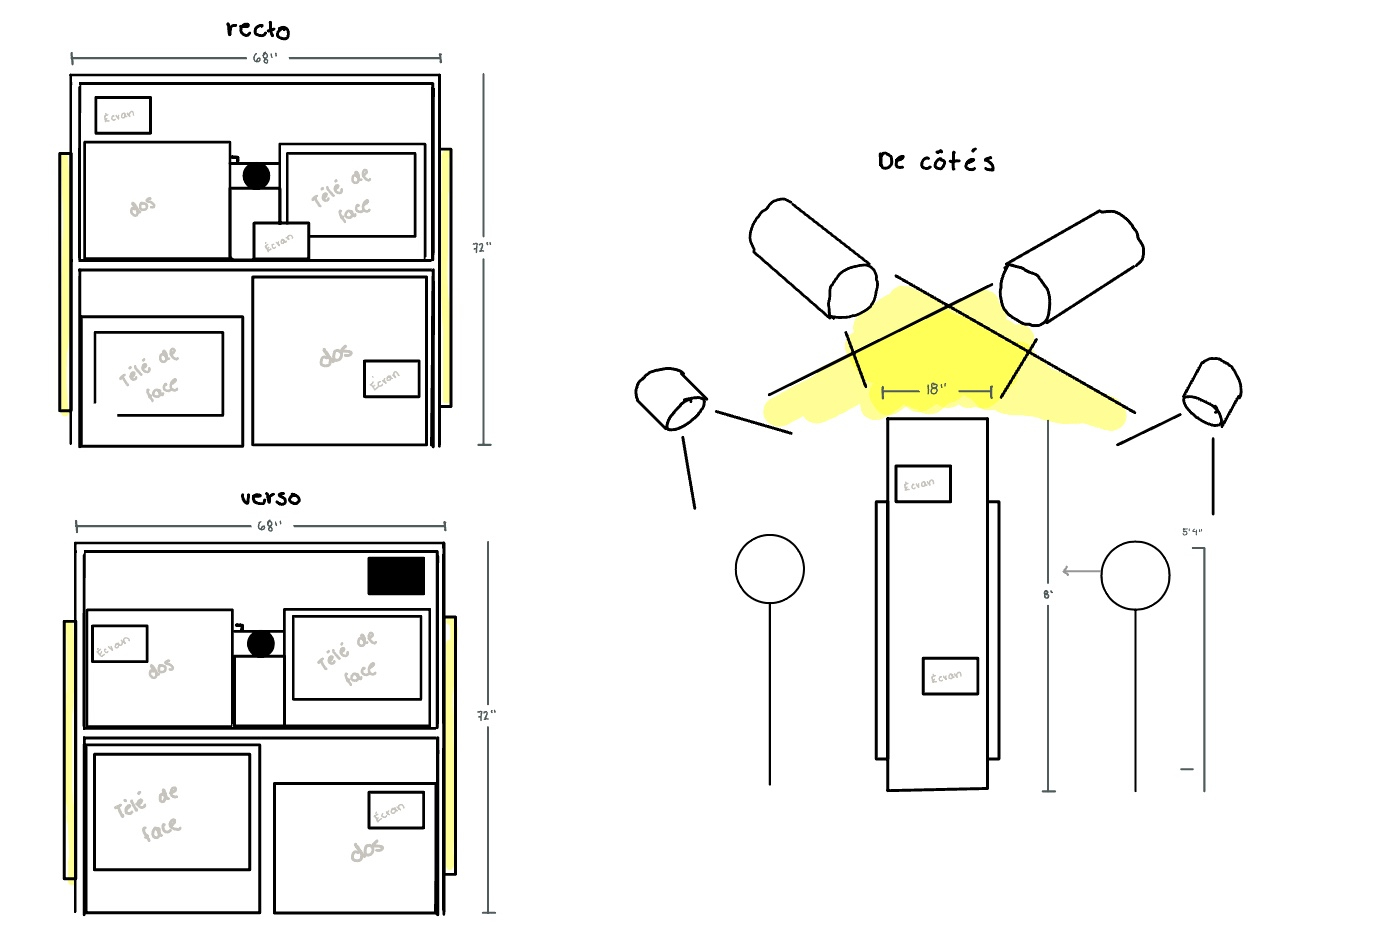
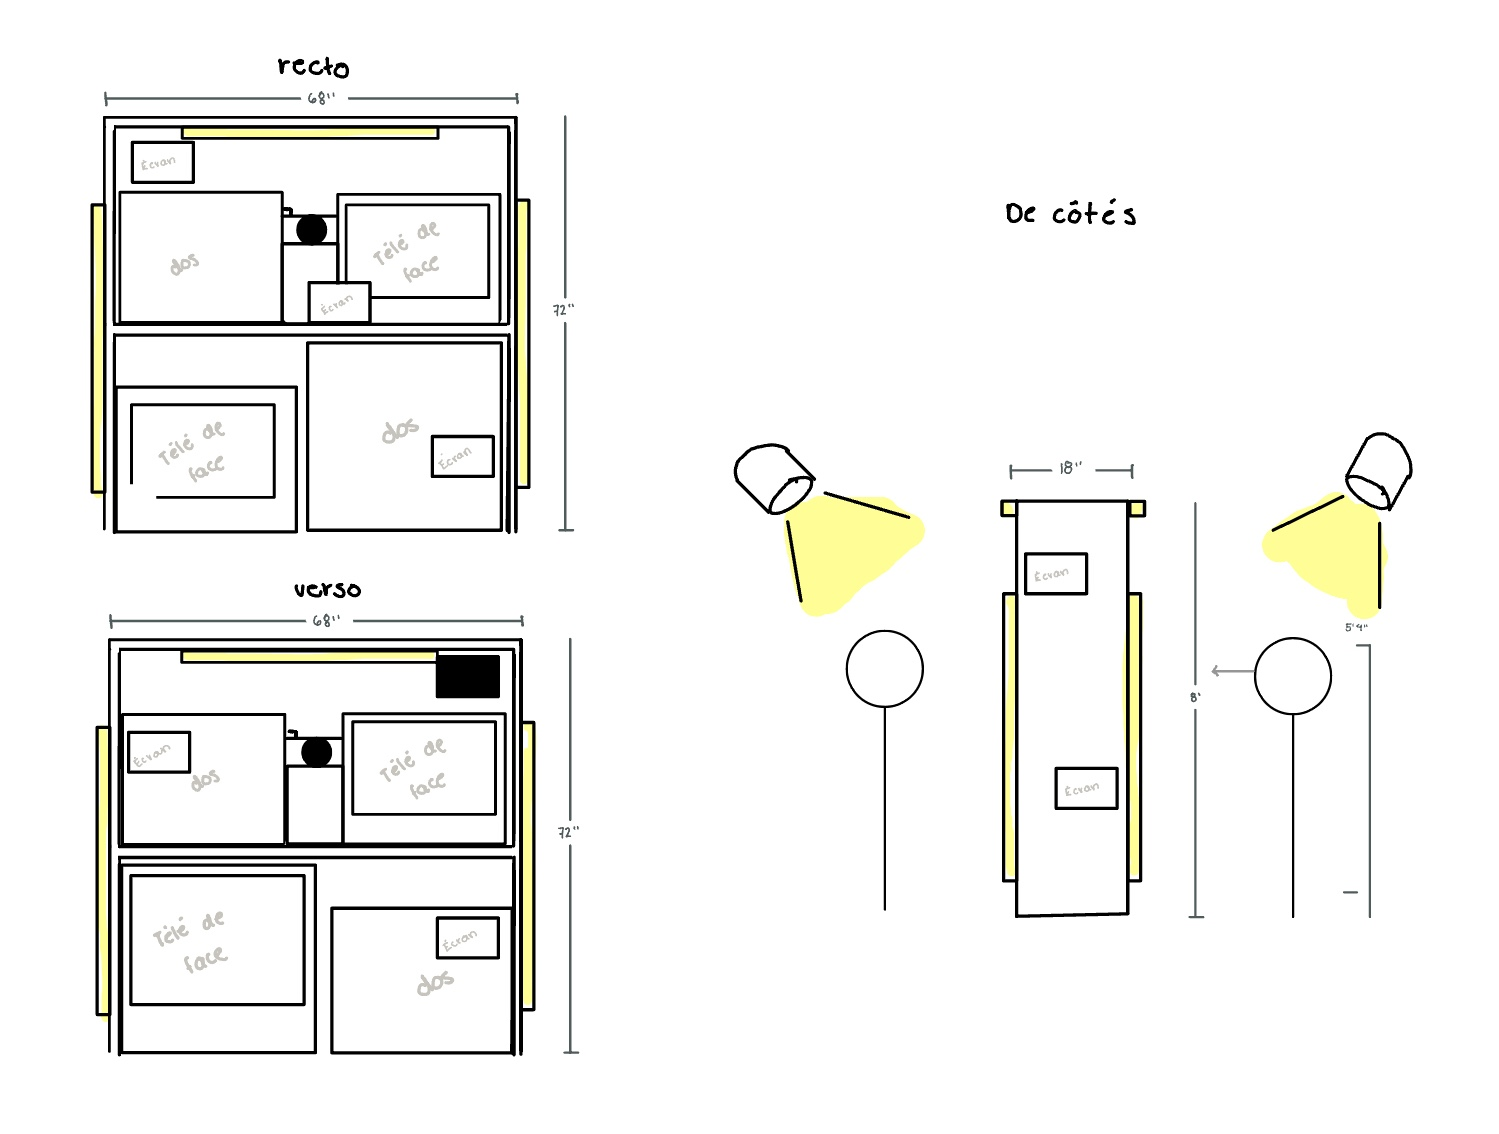
journal_19/02

diff --git a/equipe/jade_hebert/README.md b/equipe/jade_hebert/README.md
@@ -32,10 +32,10 @@ Tâches principales:
 
 - Assemblage de la maquette 1 <br>
   - Avoir en notre possession toutes les télévisions
-  - Avoir un montage sonore combinant l'ambiance + effets sonores d'environnement (Manel)
+  - Avoir un montage sonore combinant l'ambiance + effets sonores d'environnement
   - Faire une animation des lumières LED
   - Assembler une installation qui comprend deux haut-parleurs, un faisceau lumineux et la caméra
-  - Faire fonctionner les écrans (Félix)
+  - Faire fonctionner les écrans
 
 <img src="equipe/jade_hebert/maquette1_plan.jpeg" 
      alt="Plan de la maquette 1" 
@@ -60,11 +60,11 @@ Tâches principales:
 - Assurer le bon déroulement du tournage et de la documentation <br>
 - Rédiger le dossier de presse <br>
 - Assemblage de la maquette 2 <br>
-  - Pouvoir inclure les yeu des interacteurs dans la séquence vidéo (Edelwyn)
-  - Avoir le montage sonore combinant l'ambiance + effets sonores d'environnement et d'animaux (Manel)
-  - Faire une animation des lumières DNX (2)
+  - Pouvoir inclure les yeu des interacteurs dans la séquence vidéo
+  - Avoir le montage sonore combinant l'ambiance + effets sonores d'environnement et d'animaux
   - Assembler une installation qui comprend deux haut-parleurs, deux faisceaux lumineux et deux caméras
-  - Pouvoir inclure la captation des DEUX caméras dans la séquence vidéo (Edelwyn)
+  - Pouvoir inclure la captation des DEUX caméras dans la séquence vidéo
+  - Faire une animation de lumière LED
 
   <img src="equipe/jade_hebert/maquette2_plan.jpeg" 
      alt="Plan de la maquette 2" 
@@ -78,15 +78,16 @@ Tâches principales:
 - Organiser des tests utilisateurs (Présentation publique pendant le trou à l'horaire) <br>
 - Débuter l'installation (maquette finale)<br>
 - Identifier les bugs <br>
+- Déplacement de la structure <br>
 
 ### Semaine 6.5 - Tests & débogage
 
 Tâches principales:
 
 - Finir l'installation (maquette finale) <br>
-  - Avoir en notre possession toutes les écrans (Félix)
+  - Avoir en notre possession toutes les écrans
   - Faire une animation des lumières DNX (4)
-  - Cacher le câblage à l'aide de boîtes, de rideaux et d'arragement floraux (Manel, Patrica, Edelwyn)
+  - Cacher le câblage à l'aide de boîtes, de rideaux et d'arragement floraux
 - Vérifier la stabilité générale <br>
 - Prioriser les corrections <br>
 - Coordonner les correctifs <br>
@@ -215,6 +216,10 @@ Cette section, complétée quotidiennement pendant l’exécution du projet, doc
 | 10:00 | Réorganisation du Projet TouchDesigner                           |
 | 14:00 | Afficher les captations sur des télévisions aléatoires (debogue) |
 
+<img src="equipe/jade_hebert/av2.jpeg" 
+     alt="Réorganisation des ordinateurs et du branchement" 
+     style="width:100%; height:auto; border-radius:10px;">
+
 #### Vendredi
 
 | Heure | <div style="width:550px">Tâches accomplies </div>                |
@@ -238,11 +243,20 @@ Cette section, complétée quotidiennement pendant l’exécution du projet, doc
 | 15:00 | Découpage des dimensions du tissu                                         |
 | 16:00 | Dossier de presse                                                         |
 
+<img src="equipe/jade_hebert/av3.jpeg" 
+     alt="Découpe du tissu" 
+     style="width:100%; height:auto; border-radius:10px;">
+
 #### Jeudi
 
-| Heure | <div style="width:550px">Tâches accomplies </div> |
-| ----- | ------------------------------------------------- |
-| 10:00 | Dossier de presse                                 |
+| Heure | <div style="width:550px">Tâches accomplies </div>           |
+| ----- | ----------------------------------------------------------- |
+| 10:00 | Dossier de presse                                           |
+| 13:00 | Manuel de démarrage                                         |
+| 14:30 | Installation du spotlight                                   |
+| 15:30 | Renontre comité Communications                              |
+| 16:00 | Test utilisateurs et debogues                               |
+| 17:00 | Mise à jour de la maquette 2 selon les problèmes rencontrés |
 
 #### Vendredi
 
